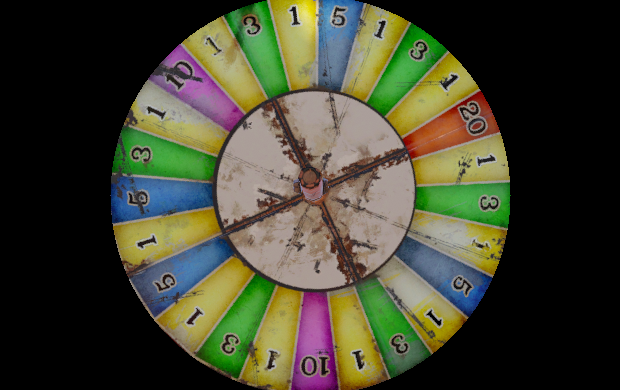
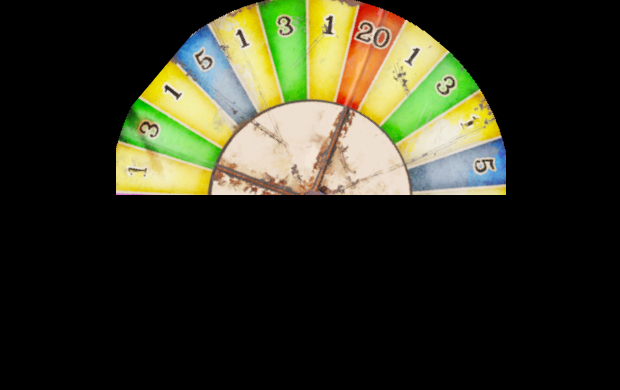
ehm. alot of changes

diff --git a/util.py b/util.py
@@ -3,17 +3,12 @@ import cv2
 import numpy as np
 import pyautogui
 import re
-from scipy import ndimage
+
 from PIL import Image
 import pytesseract
-import imutils
-from scipy.spatial import KDTree
-import webcolors
 
 
-
-
-def getWheelCircle():
+def getWheelCircle(contrast, brightness):
     x, y, width, height = 630, 220, 620, 390
     screenshot = pyautogui.screenshot(region=(x, y, width, height))
 
@@ -26,18 +21,18 @@ def getWheelCircle():
 
     cropped_img = cv2.bitwise_and(screenshot, screenshot, mask=mask)
 
-    #h, w = cropped_img.shape[:2]
-    #M = cv2.getRotationMatrix2D((w/2, h/2), -40, 1)
-    #rotated_img = cv2.warpAffine(cropped_img, M, (w, h))
-    #height, width = rotated_img.shape[:2]
-    #img = rotated_img[:, :width//2]
+    h, w = cropped_img.shape[:2]
+    M = cv2.getRotationMatrix2D((w/2, h/2), -40, 1)
+    rotated_img = cv2.warpAffine(cropped_img, M, (w, h))
+    height, width = rotated_img.shape[:2]
+    img = rotated_img[:, :width//2]
 
-    #M = cv2.getRotationMatrix2D(center, -90, 1.0)
+    M = cv2.getRotationMatrix2D(center, -90, 1.0)
+    img  = cv2.warpAffine(img, M, (w, h))
 
-    # Perform rotation
-    #img  = cv2.warpAffine(img, M, (w, h))
+    img = cv2.addWeighted( img, contrast, img, 0, brightness)
 
-    img = cv2.cvtColor(cropped_img, cv2.COLOR_RGB2BGR)
+    img = cv2.cvtColor(img, cv2.COLOR_RGB2BGR)
     cv2.imwrite('tmp.png', img)
     return img
 

diff --git a/main.py b/main.py
@@ -4,7 +4,16 @@ from PIL import Image
 from util import *
 from scrap import *
 import numpy as np
-from webcolors import rgb_to_name
-import pytesseract
+from jpype import *
 
-# amount = round(percentage(1, extract_numbers(getScrap())))
+startJVM("-ea", classpath=["RustWheel.jar"])
+wheelClass = JClass("net.kealands.Main")
+
+wheel = getWheelCircle(1, 0)
+
+wheelClass.start()
+print("red: ", wheelClass.getRed(), " blue: ", wheelClass.getBlue(), " pink: ", wheelClass.getPink())
+
+cv2.imshow("image", wheel)
+cv2.waitKey(0)
+cv2.destroyAllWindows()
